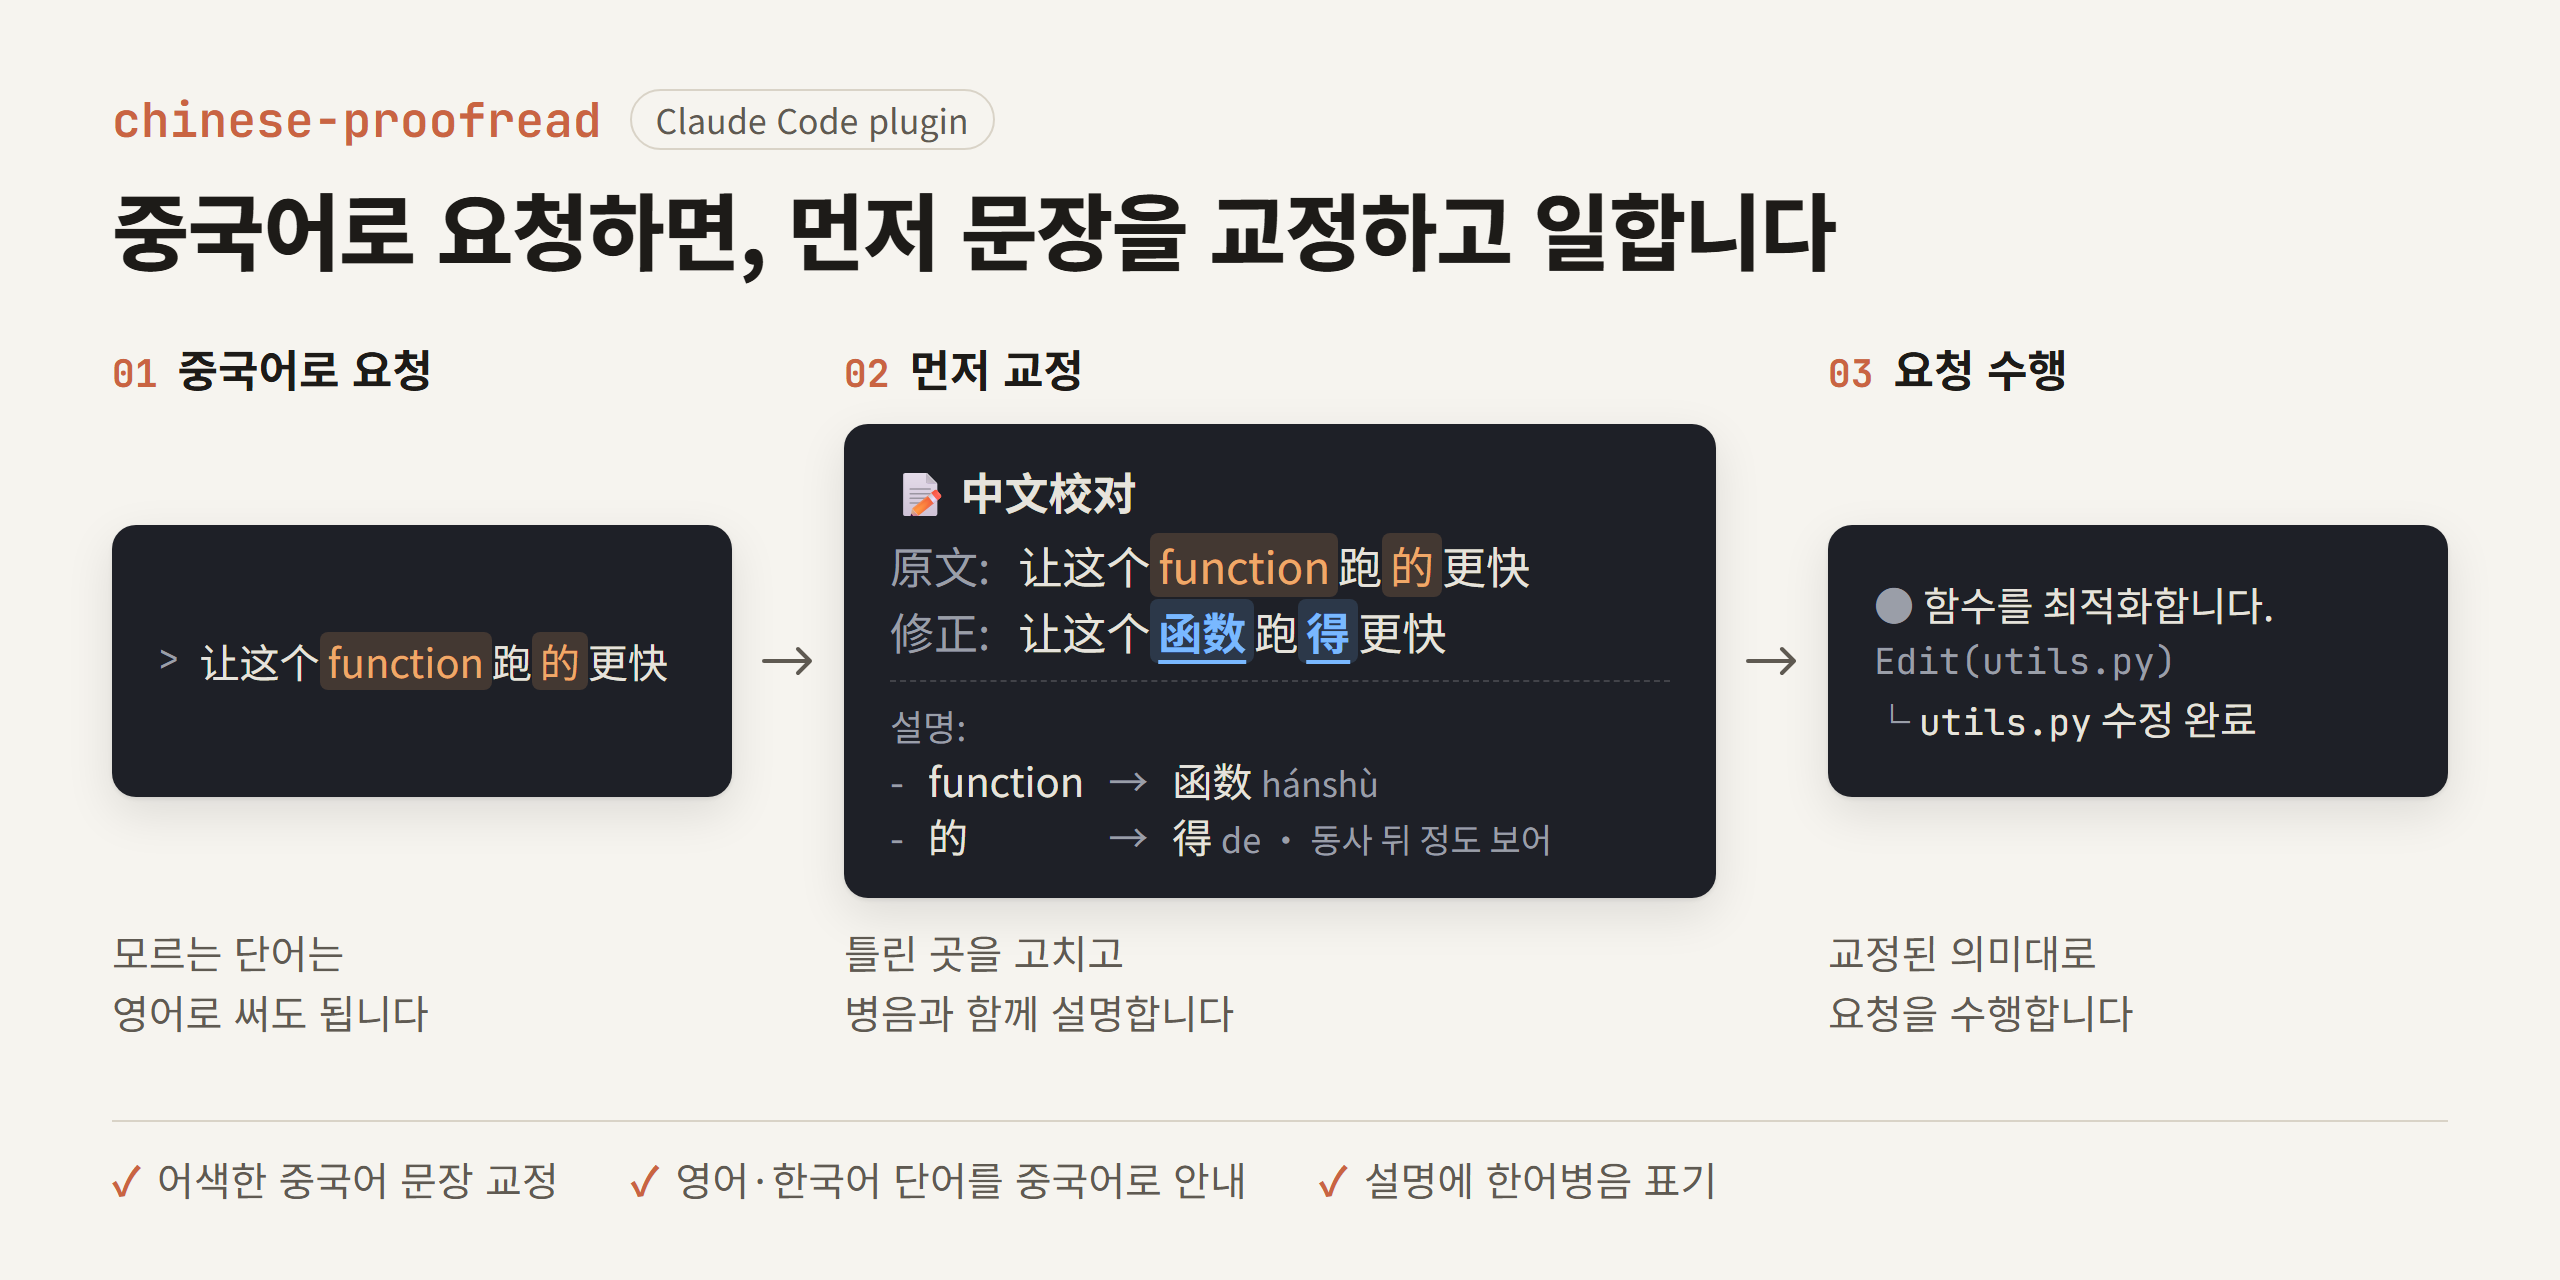
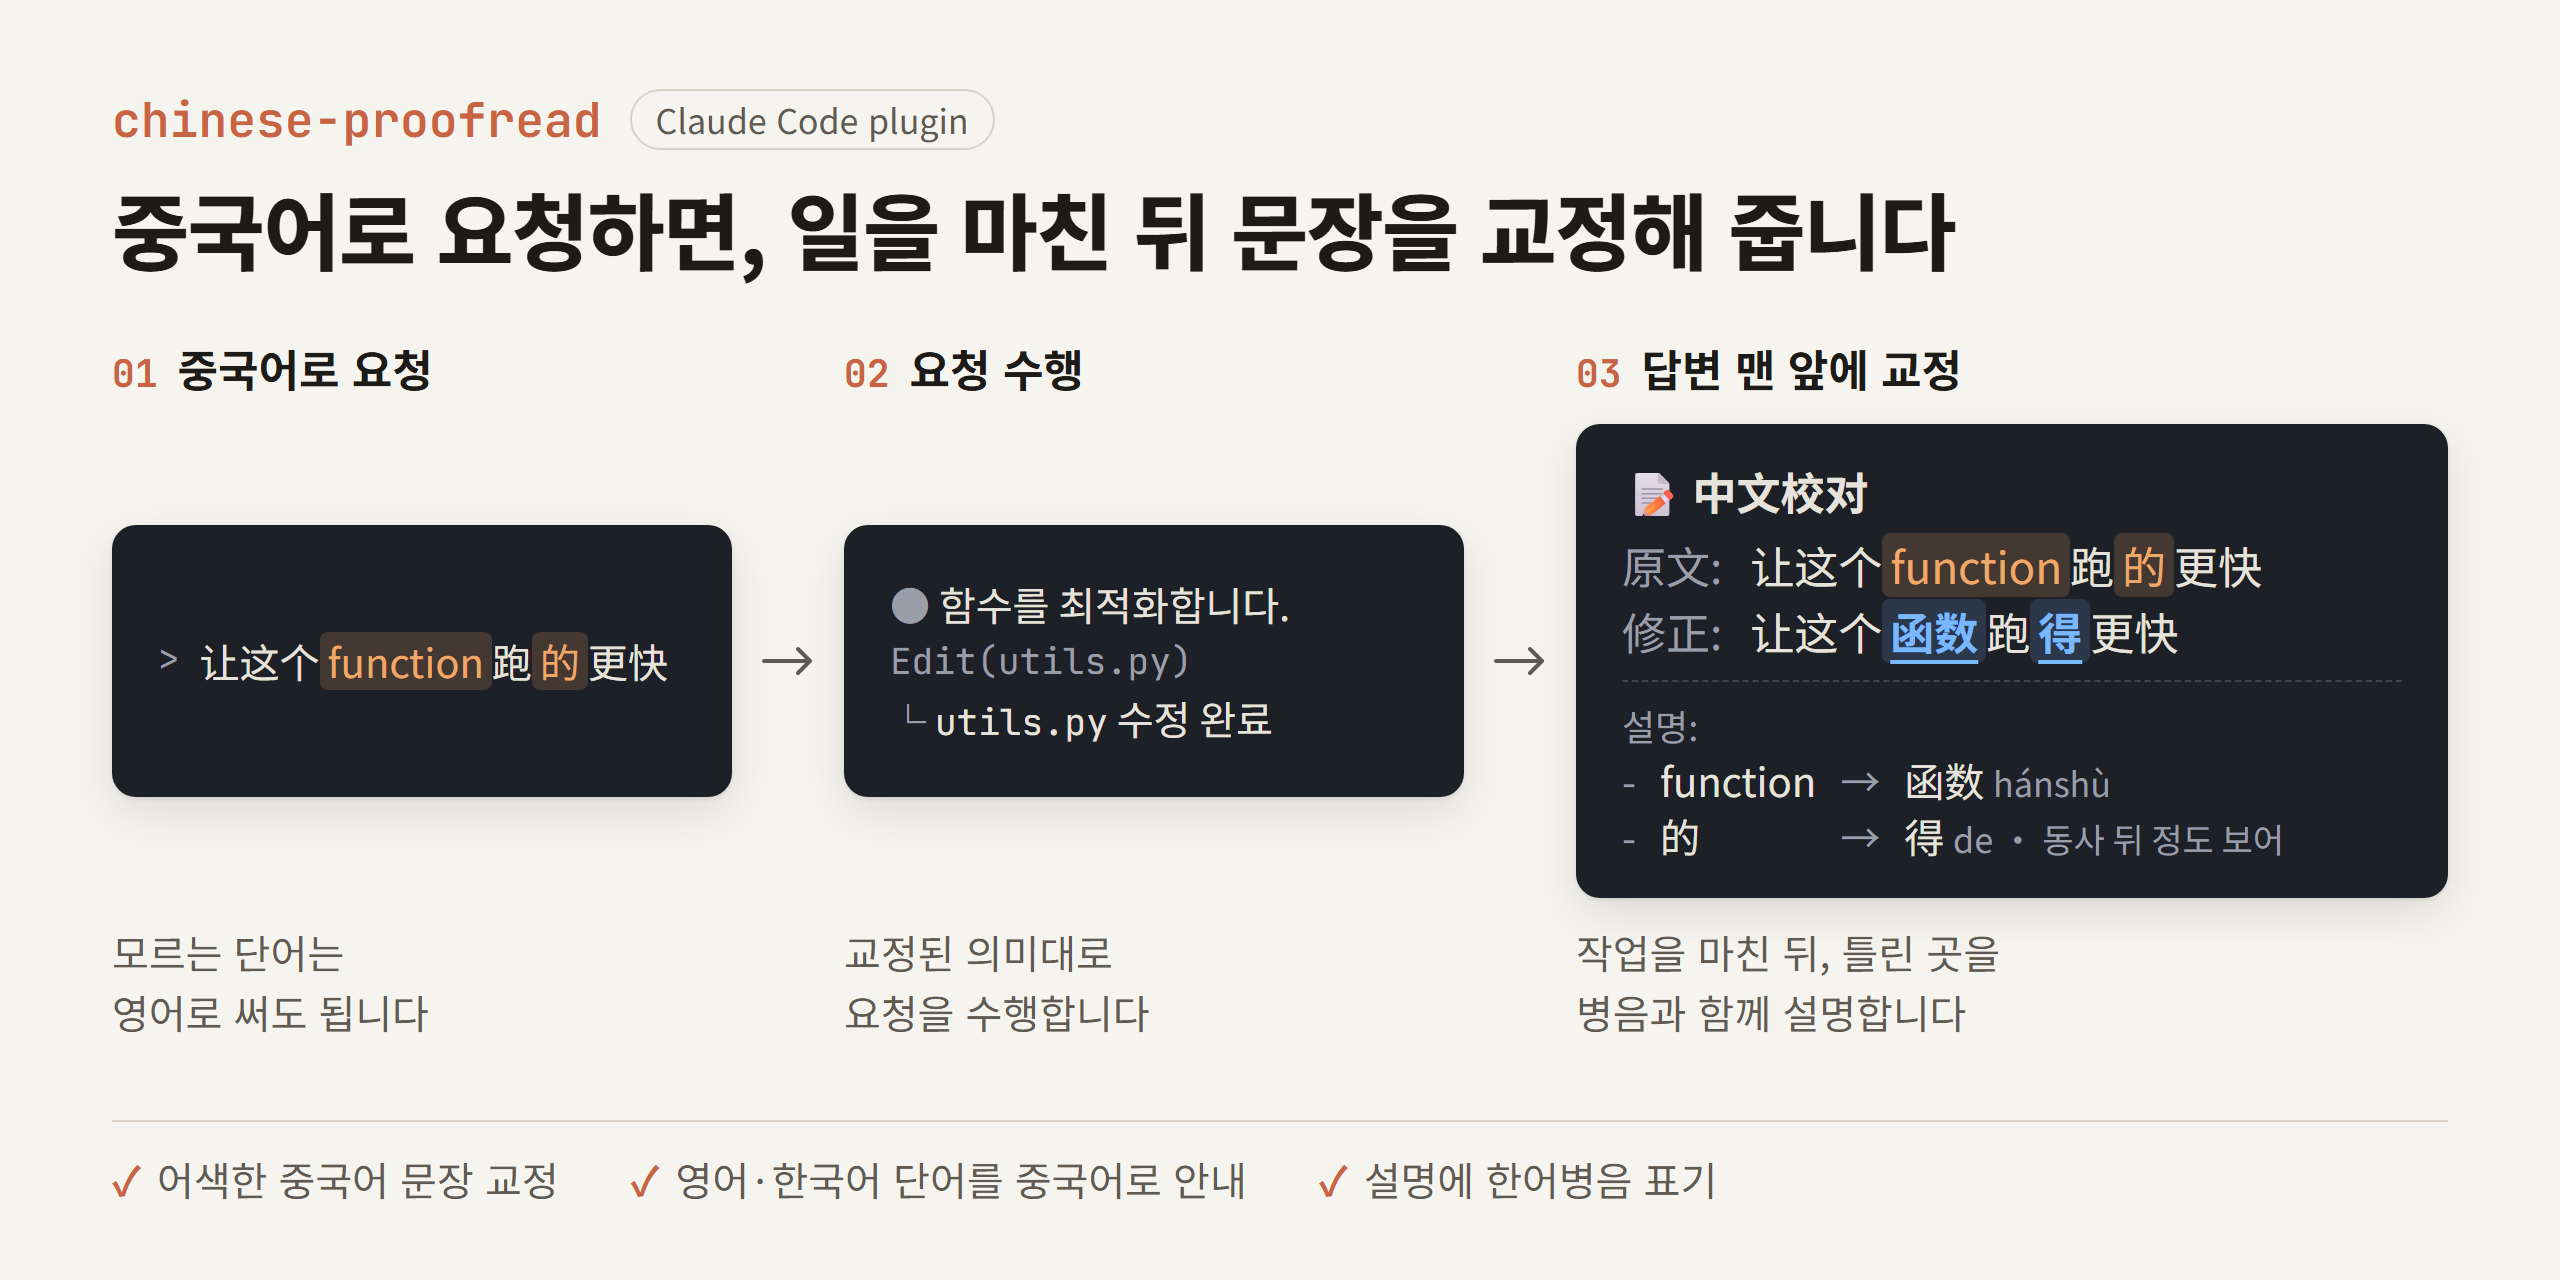
docs: README 소개 이미지의 단계 순서를 실제 동작에 맞게 수정
이전 이미지는 교정을 먼저 하고 요청을 수행하는 순서로 그렸으나,
SKILL.md와 설계 결정 13번은 작업을 마친 뒤 최종 답변 맨 앞에 교정
블록을 쓰도록 정하고 있습니다. 이미지를 '01 중국어로 요청, 02 요청
수행, 03 답변 맨 앞에 교정' 순서로 다시 만들었고, 제목도 '일을 마친
뒤 문장을 교정해 줍니다'로 바꿨습니다. README의 이미지 alt 텍스트도
같은 순서로 고쳤습니다.

Changed region(s): [[0.3125, 0.25, 0.9688, 0.8125], [0.3125, 0.125, 0.7812, 0.2188]]

diff --git a/README.md b/README.md
@@ -8,7 +8,7 @@ Claude Code로 개발하면서 중국어를 배우는 한국어 사용자를 대
 
 판별과 교정을 어떻게 설계하고 평가했는지는 [설계와 평가](#설계와-평가)에 정리했습니다.
 
-<img src="docs/images/readme-hero.png" width="880" alt="중국어 요청 让这个function跑的更快를 Claude가 让这个函数跑得更快로 교정하고, function은 函数(hánshù)로, 的는 得로 고친 이유를 설명하며, 교정된 의미대로 함수를 최적화하는 흐름">
+<img src="docs/images/readme-hero.png" width="880" alt="중국어 요청 让这个function跑的更快를 받은 Claude가 교정된 의미대로 함수를 최적화한 뒤, 최종 답변의 맨 앞에서 문장을 让这个函数跑得更快로 교정하고 function은 函数(hánshù)로, 的는 得로 고친 이유를 설명하는 흐름">
 
 ## 교정 결과 예시
 
